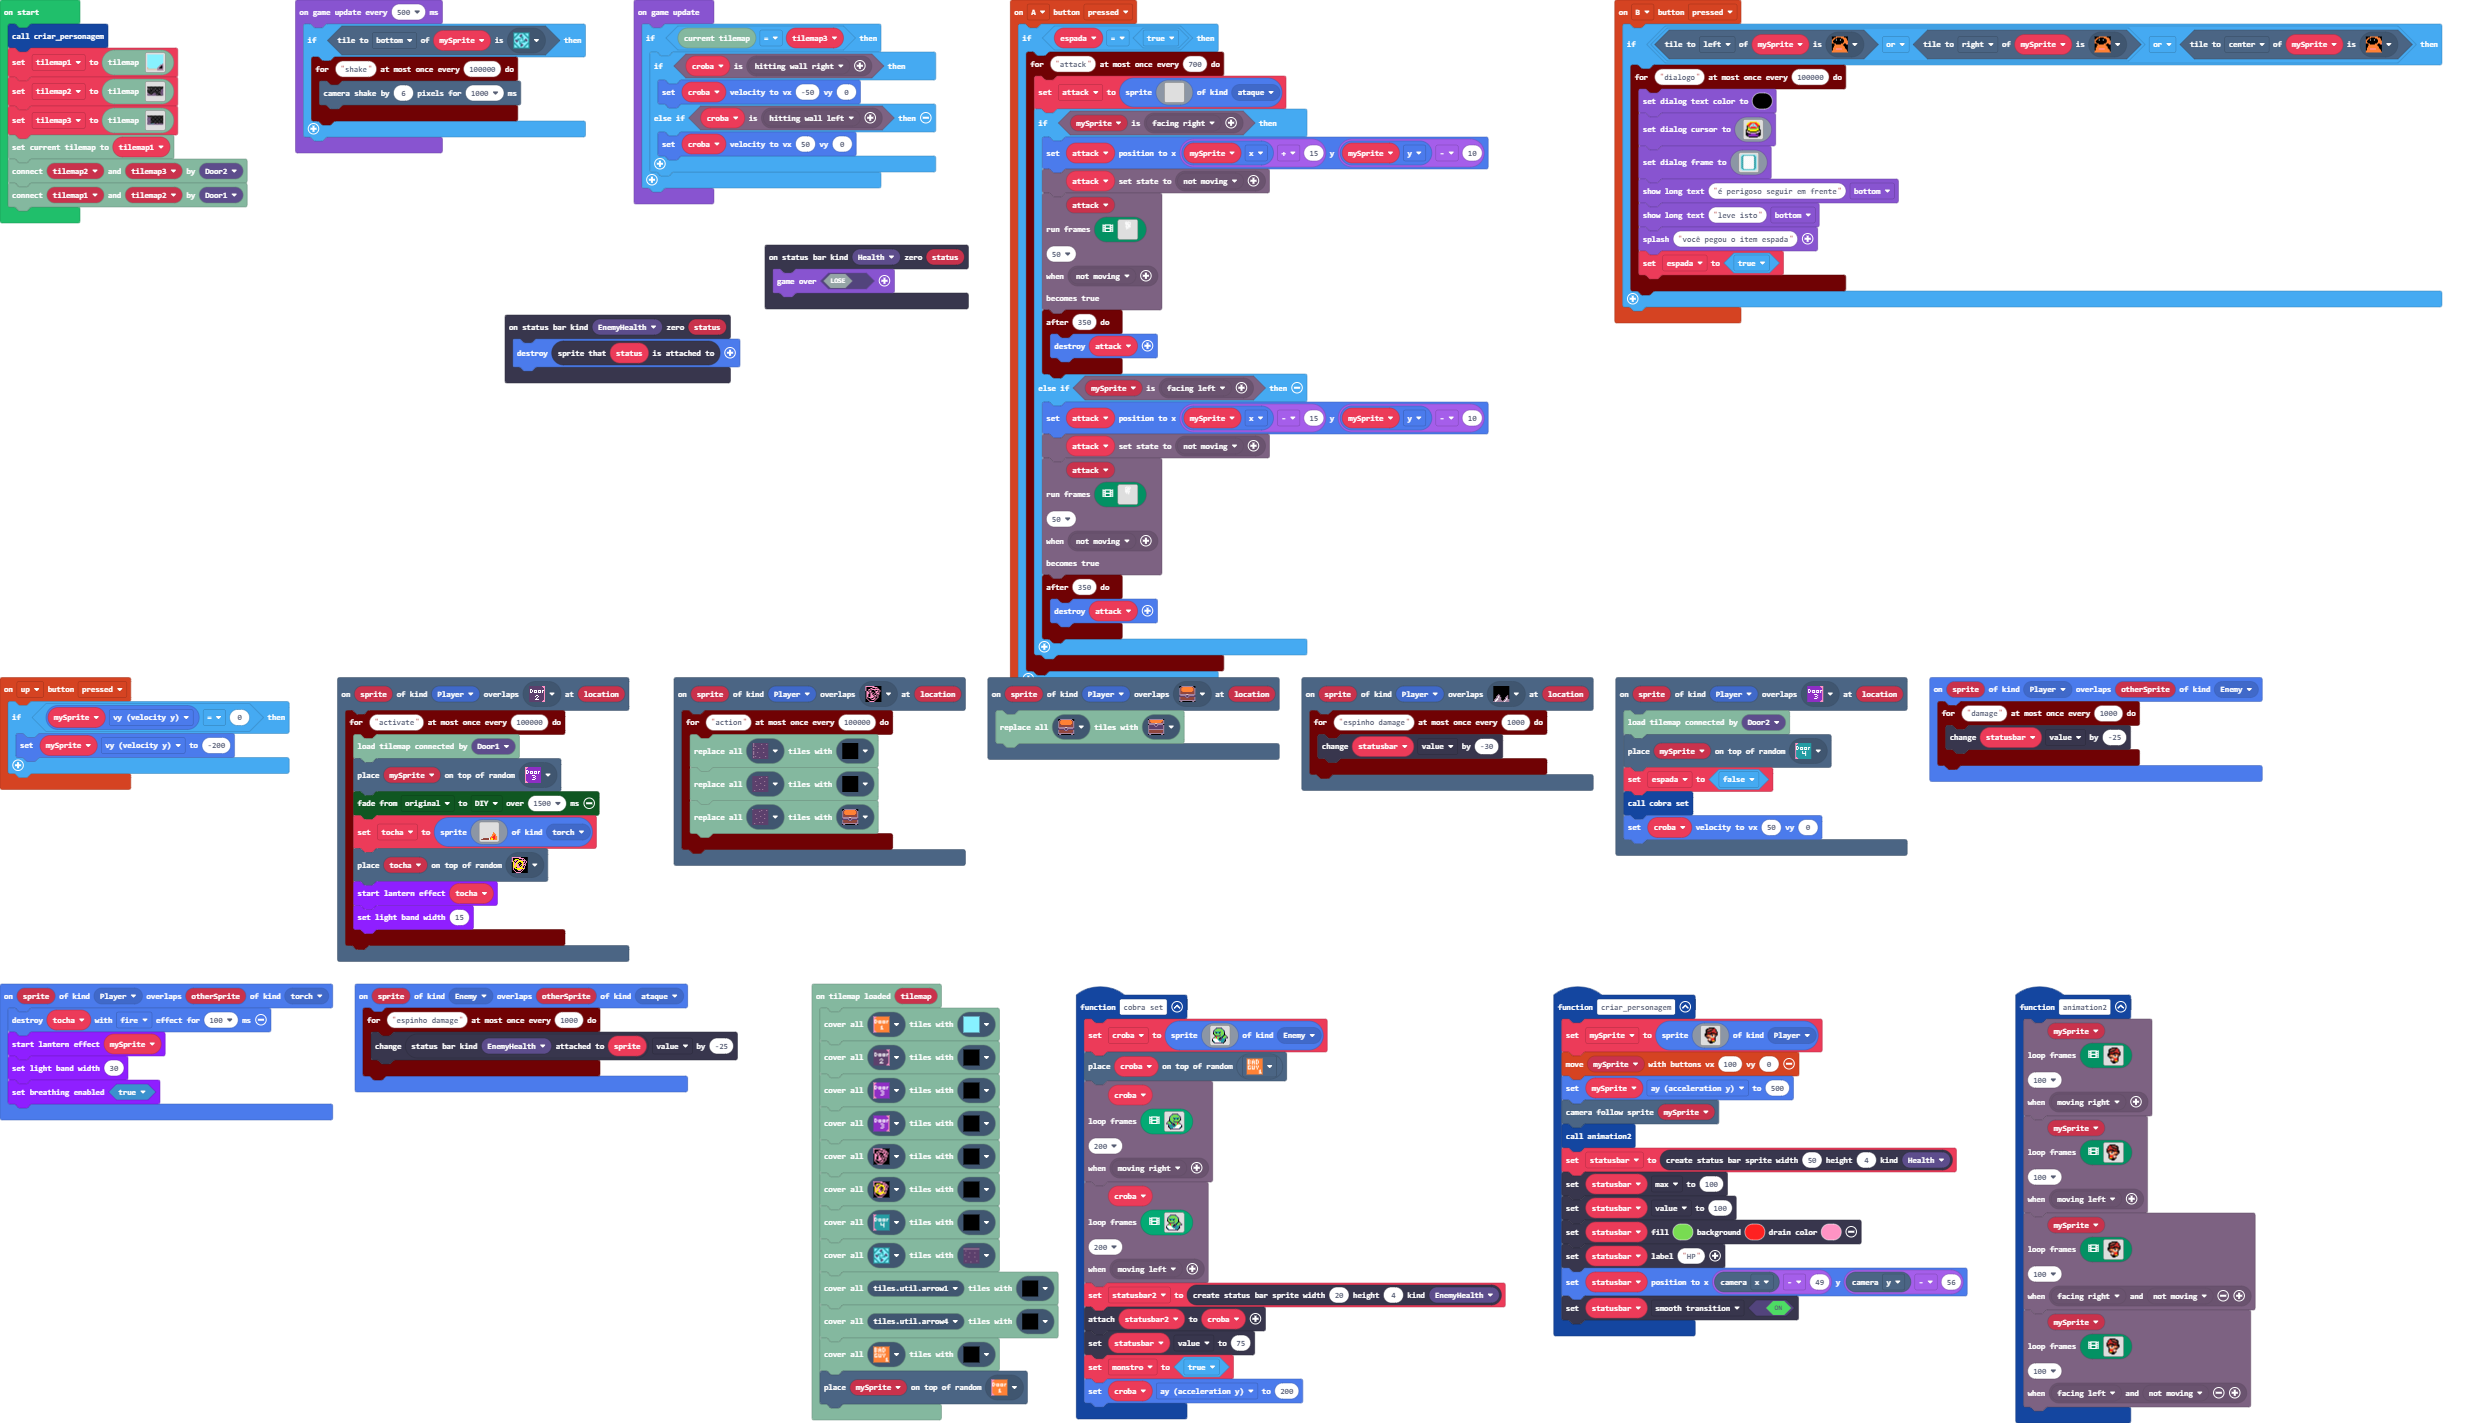
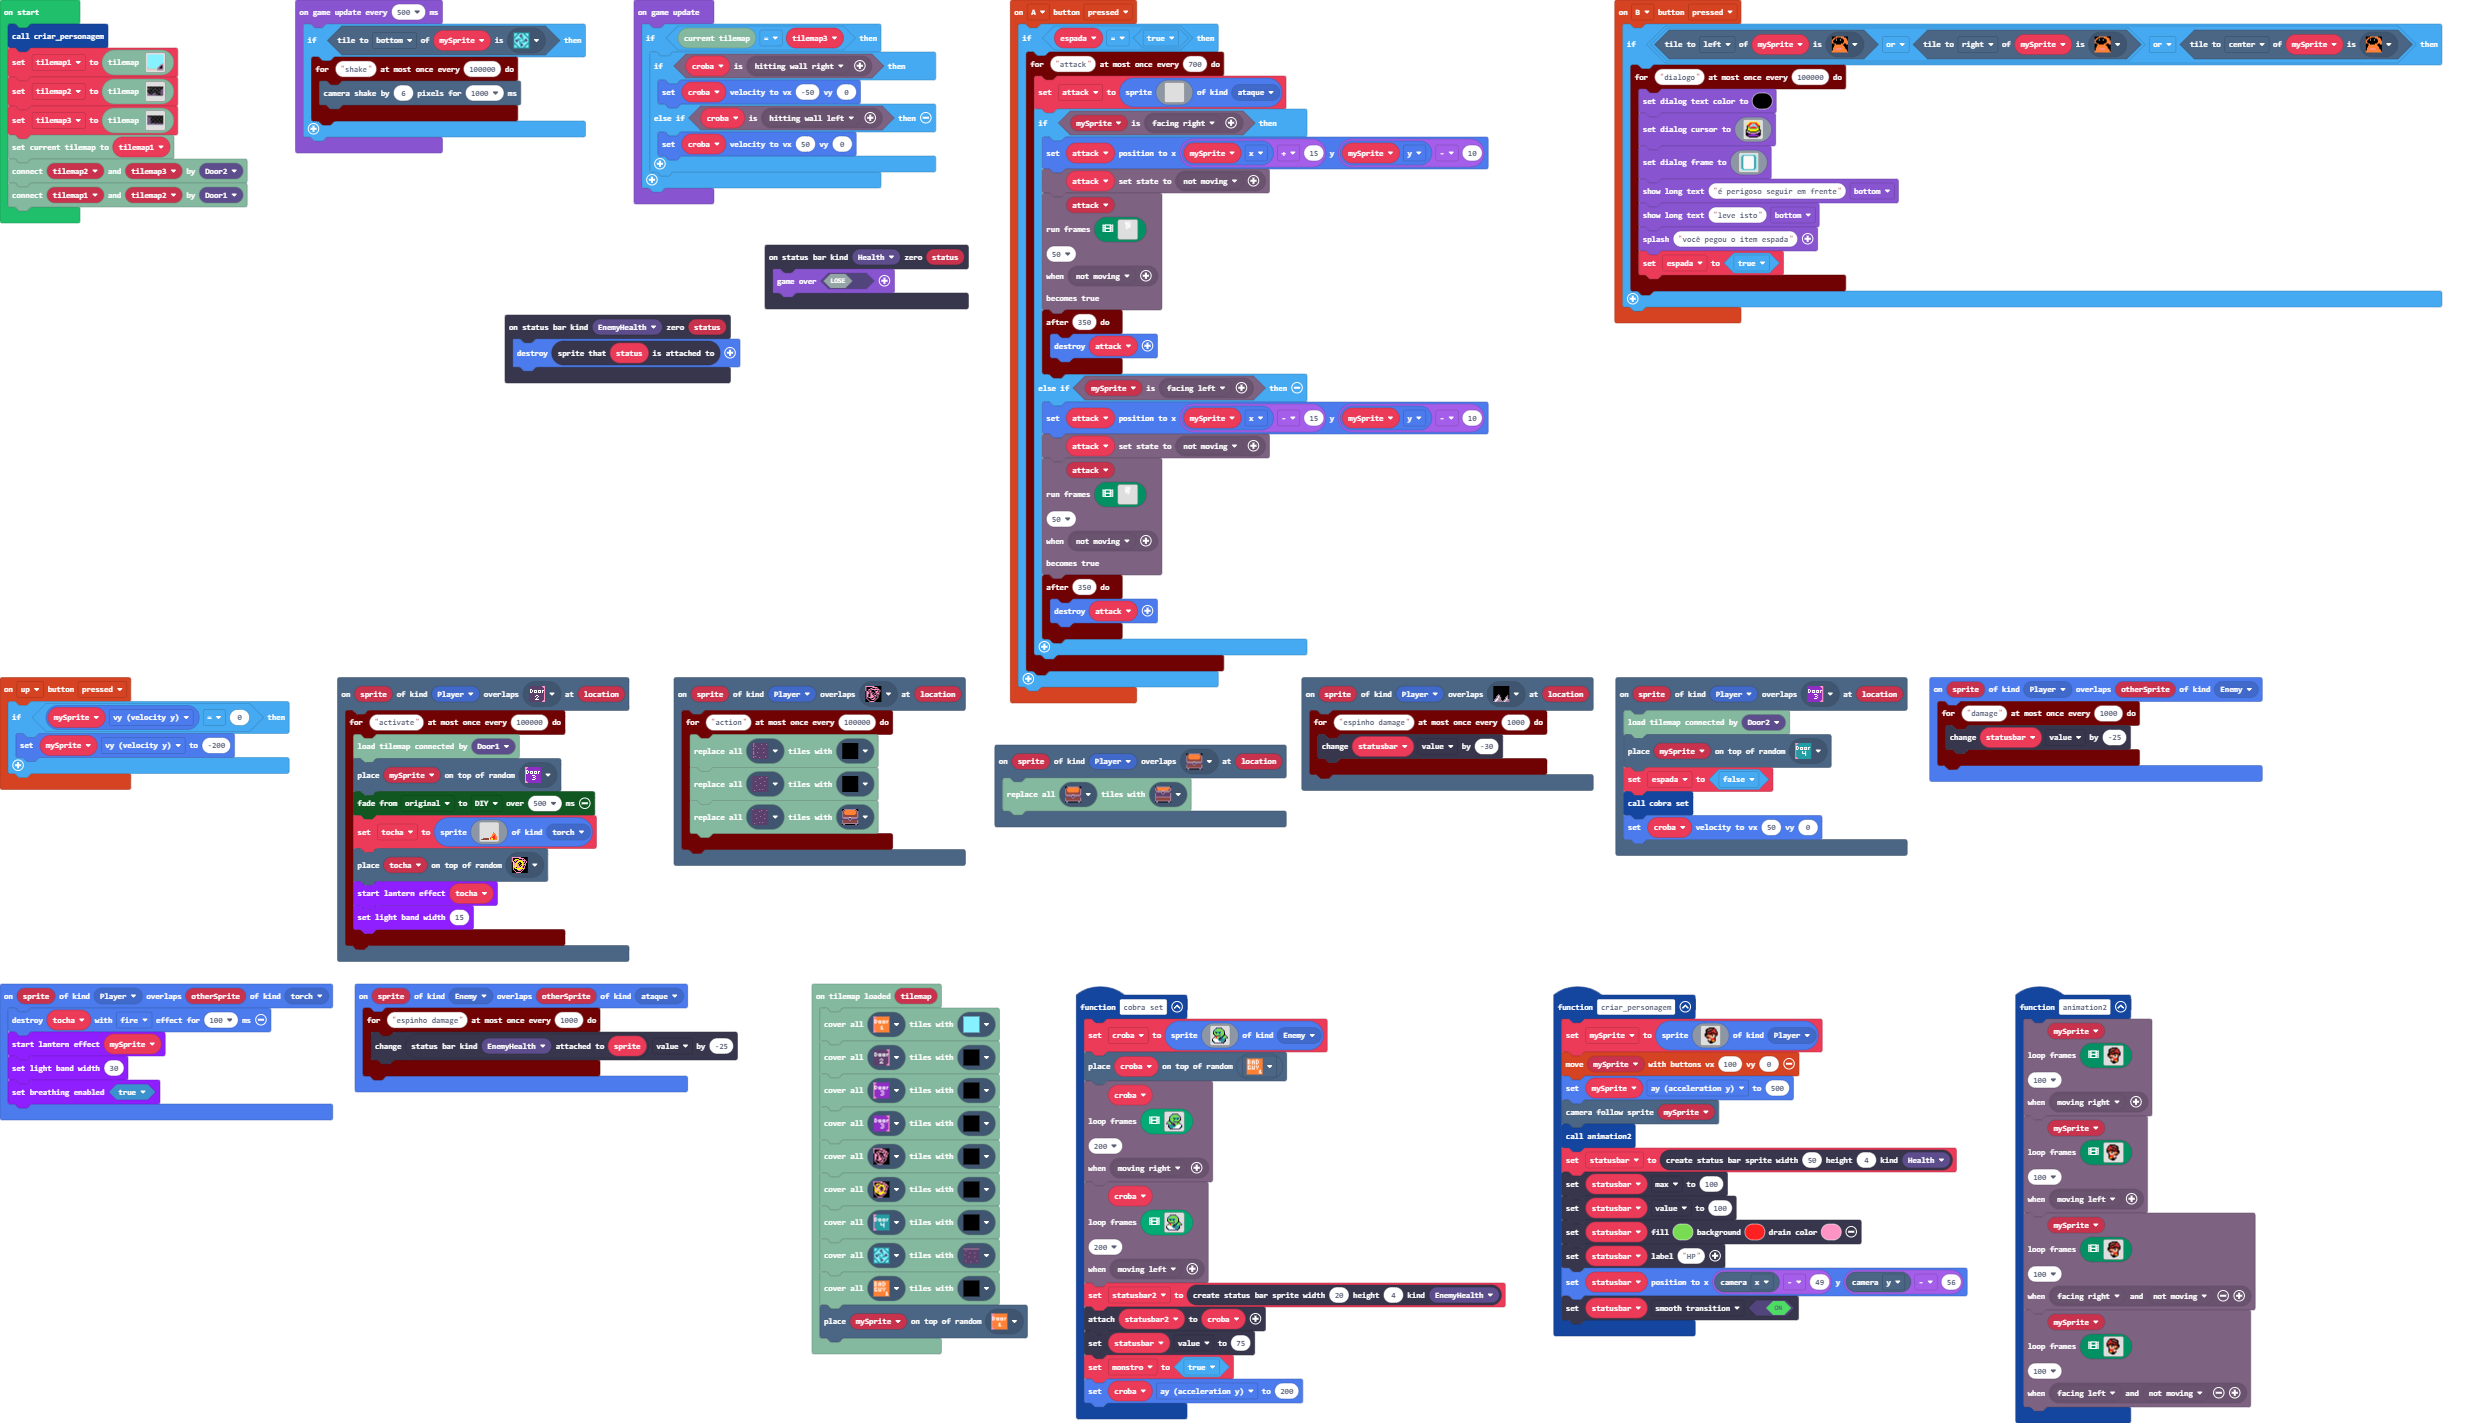
Update main.blocks, main.ts, tilemap.g.jres, tilemap.g.ts

Changed region(s): [[0.3744, 0.4638, 0.5304, 0.5875], [0.312, 0.8967, 0.4368, 1.0], [0.2184, 0.5566, 0.2496, 0.5875]]

diff --git a/tilemap.g.ts b/tilemap.g.ts
@@ -168,6 +168,63 @@ namespace myTiles {
 2222222222222222222222222222
 2222222222222222222222222222
 `, [myTiles.transparency16,myTiles.tile2,sprites.dungeon.darkGroundNorth,sprites.dungeon.darkGroundEast,sprites.dungeon.darkGroundSouthWest1,sprites.dungeon.darkGroundSouthEast1,sprites.dungeon.darkGroundNorthEast0,sprites.dungeon.darkGroundCenter,sprites.dungeon.darkGroundNorthWest0,tiles.util.door14,myTiles.tile12,myTiles.tile14,myTiles.tile15,tiles.util.object4], TileScale.Sixteen);
+            case "level8":
+            case "level8":return tiles.createTilemap(hex`1000100000000000000000000000000000000000000000000000000000000000000000000000000000000000000000000000000000000000000000000000000000000000000000000000000000000000000000000000000000000000000000000000000000000000000000000000000000000000000000000000000000000000000000000000000000000000000000000000000000000000000000000000000000000000000000000000000000000000000000000000000000000000000000000000000000000000000000000000000000000000000000000000000000000000000000000000000000000000000000000000000000000000000000000000000000000000`, img`
+. . . . . . . . . . . . . . . . 
+. . . . . . . . . . . . . . . . 
+. . . . . . . . . . . . . . . . 
+. . . . . . . . . . . . . . . . 
+. . . . . . . . . . . . . . . . 
+. . . . . . . . . . . . . . . . 
+. . . . . . . . . . . . . . . . 
+. . . . . . . . . . . . . . . . 
+. . . . . . . . . . . . . . . . 
+. . . . . . . . . . . . . . . . 
+. . . . . . . . . . . . . . . . 
+. . . . . . . . . . . . . . . . 
+. . . . . . . . . . . . . . . . 
+. . . . . . . . . . . . . . . . 
+. . . . . . . . . . . . . . . . 
+. . . . . . . . . . . . . . . . 
+`, [myTiles.transparency16], TileScale.Sixteen);
+            case "level9":
+            case "level9":return tiles.createTilemap(hex`1000100000000000000000000000000000000000000000000000000000000000000000000000000000000000000000000000000000000000000000000000000000000000000000000000000000000000000000000000000000000000000000000000000000000000000000000000000000000000000000000000000000000000000000000000000000000000000000000000000000000000000000000000000000000000000000000000000000000000000000000000000000000000000000000000000000000000000000000000000000000000000000000000000000000000000000000000000000000000000000000000000000000000000000000000000000000000`, img`
+. . . . . . . . . . . . . . . . 
+. . . . . . . . . . . . . . . . 
+. . . . . . . . . . . . . . . . 
+. . . . . . . . . . . . . . . . 
+. . . . . . . . . . . . . . . . 
+. . . . . . . . . . . . . . . . 
+. . . . . . . . . . . . . . . . 
+. . . . . . . . . . . . . . . . 
+. . . . . . . . . . . . . . . . 
+. . . . . . . . . . . . . . . . 
+. . . . . . . . . . . . . . . . 
+. . . . . . . . . . . . . . . . 
+. . . . . . . . . . . . . . . . 
+. . . . . . . . . . . . . . . . 
+. . . . . . . . . . . . . . . . 
+. . . . . . . . . . . . . . . . 
+`, [myTiles.transparency16], TileScale.Sixteen);
+            case "level10":
+            case "level10":return tiles.createTilemap(hex`1000100000000000000000000000000000000000000000000000000000000000000000000000000000000000000000000000000000000000000000000000000000000000000000000000000000000000000000000000000000000000000000000000000000000000000000000000000000000000000000000000000000000000000000000000000000000000000000000000000000000000000000000000000000000000000000000000000000000000000000000000000000000000000000000000000000000000000000000000000000000000000000000000000000000000000000000000000000000000000000000000000000000000000000000000000000000000`, img`
+. . . . . . . . . . . . . . . . 
+. . . . . . . . . . . . . . . . 
+. . . . . . . . . . . . . . . . 
+. . . . . . . . . . . . . . . . 
+. . . . . . . . . . . . . . . . 
+. . . . . . . . . . . . . . . . 
+. . . . . . . . . . . . . . . . 
+. . . . . . . . . . . . . . . . 
+. . . . . . . . . . . . . . . . 
+. . . . . . . . . . . . . . . . 
+. . . . . . . . . . . . . . . . 
+. . . . . . . . . . . . . . . . 
+. . . . . . . . . . . . . . . . 
+. . . . . . . . . . . . . . . . 
+. . . . . . . . . . . . . . . . 
+. . . . . . . . . . . . . . . . 
+`, [myTiles.transparency16], TileScale.Sixteen);
         }
         return null;
     })

diff --git a/main.ts b/main.ts
@@ -493,8 +493,6 @@ tiles.onMapLoaded(function (tilemap4) {
     tiles.coverAllTiles(assets.tile`myTile11`, assets.tile`myTile0`)
     tiles.coverAllTiles(tiles.util.door14, assets.tile`myTile0`)
     tiles.coverAllTiles(assets.tile`myTile12`, sprites.dungeon.darkGroundNorth)
-    tiles.coverAllTiles(tiles.util.arrow1, assets.tile`myTile0`)
-    tiles.coverAllTiles(tiles.util.arrow4, assets.tile`myTile0`)
     tiles.coverAllTiles(tiles.util.object4, assets.tile`myTile0`)
     tiles.placeOnRandomTile(mySprite, tiles.util.door4)
 })
@@ -671,7 +669,7 @@ scene.onOverlapTile(SpriteKind.Player, tiles.util.door3, function (sprite, locat
     timer.throttle("activate", 100000, function () {
         tiles.loadConnectedMap(ConnectionKind.Door1)
         tiles.placeOnRandomTile(mySprite, tiles.util.door12)
-        color.startFade(color.originalPalette, color.DIY, 1500)
+        color.startFade(color.originalPalette, color.DIY, 500)
         tocha = sprites.create(img`
             . . . . . . . . . . . . . . . . 
             . . . . . . . . . . . . . . . . 
